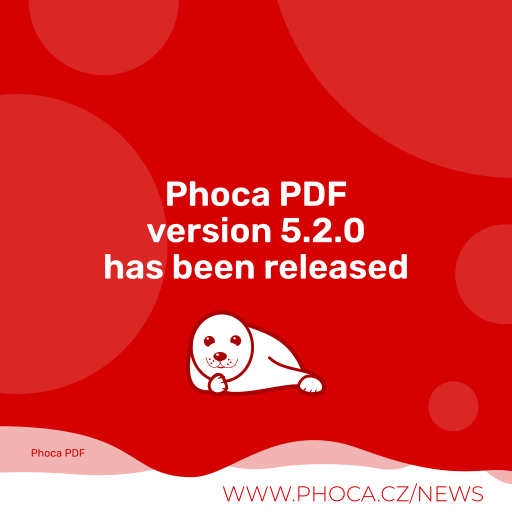
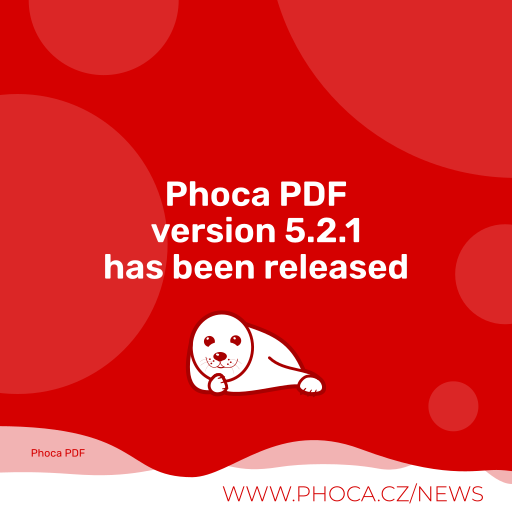
5.2.1

Changed region(s): [[0.2812, 0.4062, 0.7188, 0.5]]

diff --git a/admin/files/com_content/src/View/Article/PdfView.php b/admin/files/com_content/src/View/Article/PdfView.php
@@ -253,7 +253,7 @@ class PdfView extends BaseHtmlView
 		$item->event->afterDisplayContent = trim(implode("\n", $results));
 */
 		// Escape strings for HTML output
-		$this->pageclass_sfx = htmlspecialchars($this->item->params->get('pageclass_sfx'));
+        $this->pageclass_sfx = htmlspecialchars((string)$this->item->params->get('pageclass_sfx'), ENT_COMPAT, 'UTF-8');
 
 		//$this->_prepareDocument();
 

diff --git a/README.MD b/README.MD
@@ -69,7 +69,7 @@ Phoca PDF is Joomla! CMS component. It helps to set and create PDF documents in 
 
 ## Version (Joomla! 5.x)
 
-5.2.0
+5.2.1
 
 
 
